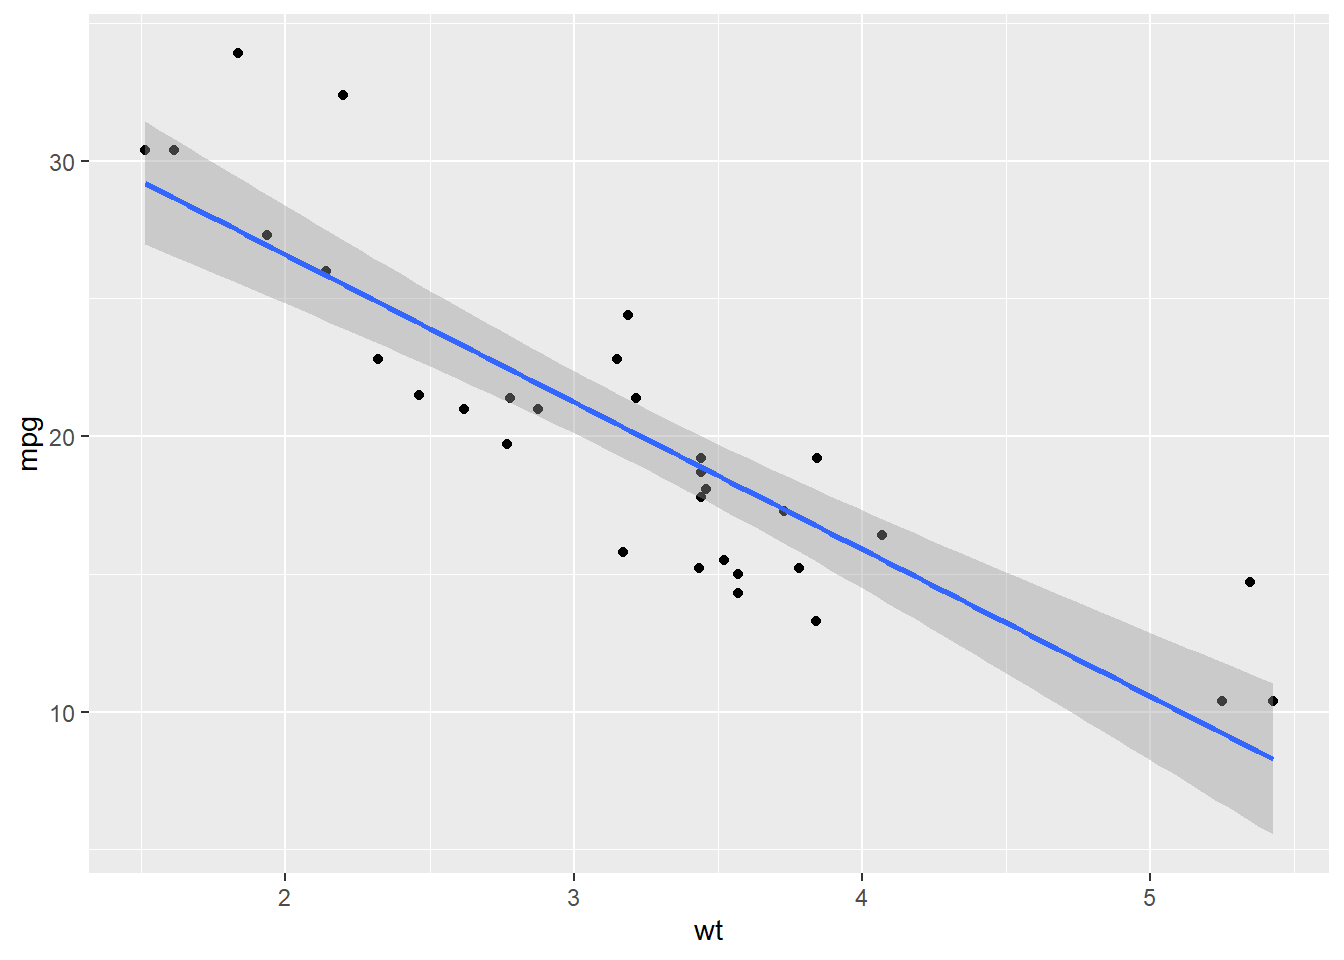
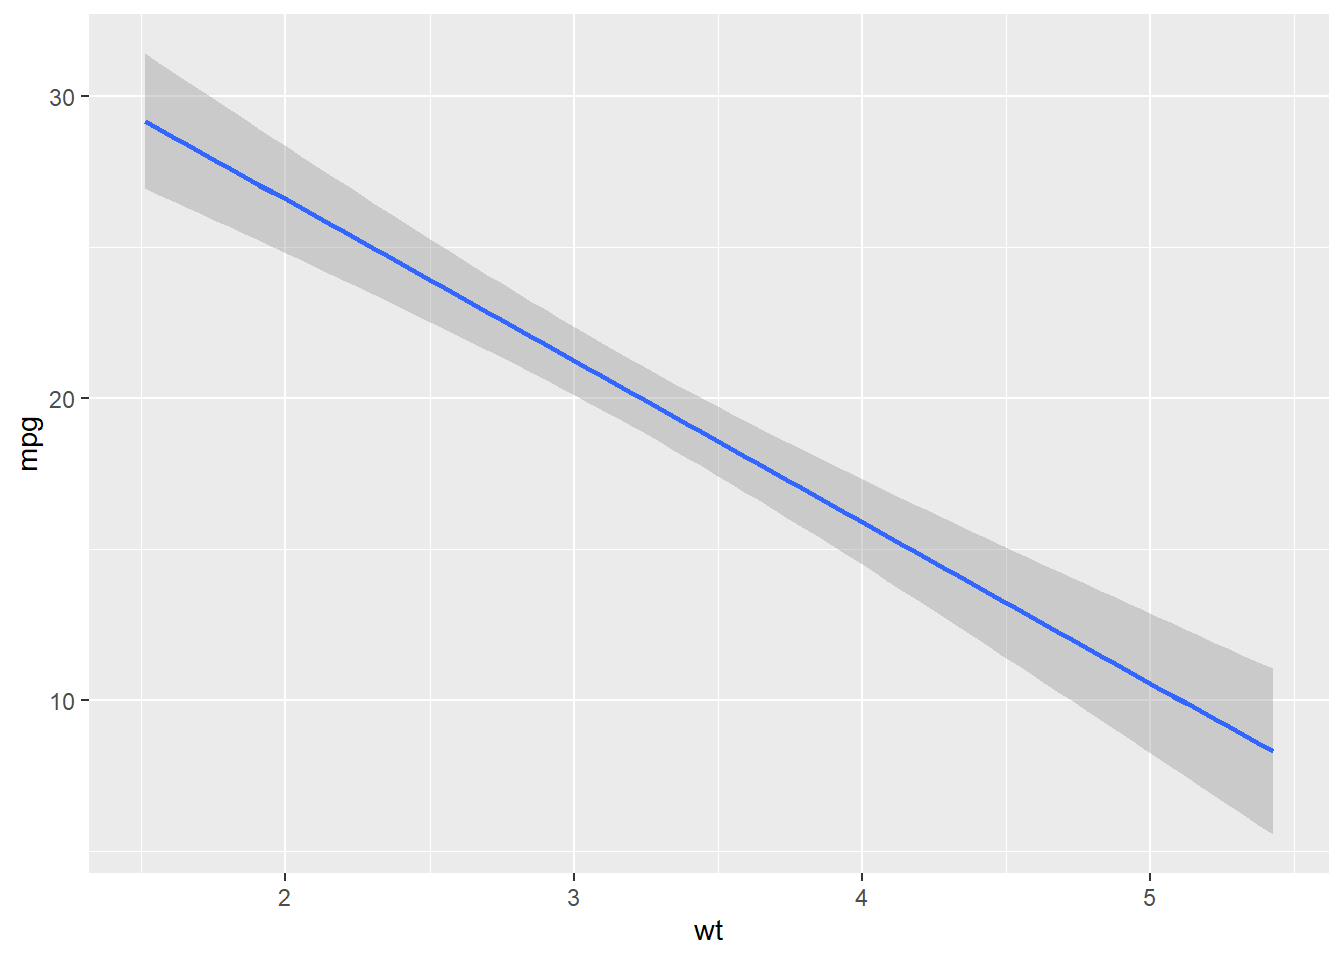
update demo9 and links

diff --git a/content/demonstrations/demo9a-modelling.html b/content/demonstrations/demo9a-modelling.html
@@ -16,12 +16,12 @@ editor_options:
 <li>plotting models using <code>geom_smooth</code></li>
 </ul>
 <pre class="r"><code>library(tidyverse)</code></pre>
-<pre><code>## -- Attaching packages ---------------- tidyverse 1.3.0 --</code></pre>
+<pre><code>## -- Attaching packages ------------------------ tidyverse 1.3.0 --</code></pre>
 <pre><code>## v ggplot2 3.3.2     v purrr   0.3.4
 ## v tibble  3.0.3     v dplyr   1.0.2
 ## v tidyr   1.1.2     v stringr 1.4.0
 ## v readr   1.3.1     v forcats 0.5.0</code></pre>
-<pre><code>## -- Conflicts ------------------- tidyverse_conflicts() --
+<pre><code>## -- Conflicts --------------------------- tidyverse_conflicts() --
 ## x dplyr::filter() masks stats::filter()
 ## x dplyr::lag()    masks stats::lag()</code></pre>
 <pre class="r"><code>library(gapminder)
@@ -192,8 +192,18 @@ str(my_model)</code></pre>
 ## 10 Merc 280          19.2  3.44    18.9  0.300     0.100  0.0329   3.10  1.71e-4
 ## # ... with 22 more rows</code></pre>
 <p>Or we can predict on a new dataset:</p>
-<pre class="r"><code>wt1 &lt;- data.frame(wt = seq(18:23))
-predict(my_lm,wt1)</code></pre>
+<pre class="r"><code>wt1 &lt;- tibble(wt = seq(18:23))
+wt1</code></pre>
+<pre><code>## # A tibble: 6 x 1
+##      wt
+##   &lt;int&gt;
+## 1     1
+## 2     2
+## 3     3
+## 4     4
+## 5     5
+## 6     6</code></pre>
+<pre class="r"><code>predict(my_lm,wt1)</code></pre>
 <pre><code>##         1         2         3         4         5         6 
 ## 31.940655 26.596183 21.251711 15.907240 10.562768  5.218297</code></pre>
 <pre class="r"><code>augment(my_lm, newdata = wt1)</code></pre>
@@ -266,7 +276,7 @@ predict(my_lm,wt1)</code></pre>
 ##   &lt;chr&gt;          &lt;dbl&gt;     &lt;dbl&gt;     &lt;dbl&gt;    &lt;dbl&gt;
 ## 1 (Intercept)    37.3      1.88      19.9  8.24e-19
 ## 2 wt             -5.34     0.559     -9.56 1.29e-10</code></pre>
-<pre class="r"><code>coef(summary(my_lm))</code></pre>
+<pre class="r"><code>coef(summary(my_lm)) </code></pre>
 <pre><code>##              Estimate Std. Error   t value     Pr(&gt;|t|)
 ## (Intercept) 37.285126   1.877627 19.857575 8.241799e-19
 ## wt          -5.344472   0.559101 -9.559044 1.293959e-10</code></pre>
@@ -295,7 +305,7 @@ predict(my_lm,wt1)</code></pre>
 <h1>Plotting linear models with <code>geom_smooth</code></h1>
 <p>We can plot models (with one predictor/ X variable) using <code>ggplot2</code> through the <code>geom_smooth()</code> layer. Specifying <code>method="lm"</code> gives us the linear regression fit (but only visually!):</p>
 <pre class="r"><code>ggplot(mtcars, aes(x = wt, y = mpg)) +
-    geom_point() +
+    #geom_point() +
     geom_smooth(method=&quot;lm&quot;) </code></pre>
 <pre><code>## `geom_smooth()` using formula &#39;y ~ x&#39;</code></pre>
 <p><img src="/demonstrations/demo9a-modelling_files/figure-html/unnamed-chunk-11-1.png" width="672" /></p>
@@ -321,6 +331,7 @@ Now we will try to fit a second degree polynomial and see what would that look l
               formula = y~poly(x,2), 
               se = F)</code></pre>
 <p><img src="/demonstrations/demo9a-modelling_files/figure-html/unnamed-chunk-14-1.png" width="672" /></p>
+<pre class="r"><code>#?geom_smooth</code></pre>
 </div>
 <div id="quiz-2" class="section level1">
 <h1>Quiz 2</h1>

diff --git a/content/week5a.html b/content/week5a.html
@@ -66,7 +66,7 @@ output: html_document
 <tr class="odd">
 <td>08A: Tidy Data</td>
 <td><a href="https://raw.githubusercontent.com/UBC-STAT/stat545.stat.ubc.ca/master/content/demonstrations/demo8a-tidyr.Rmd">.Rmd</a></td>
-<td><a href="">Knitted Demo</a></td>
+<td><a href="/demonstrations/demo8a-tidyr">Knitted Demo</a></td>
 </tr>
 </tbody>
 </table>
@@ -105,7 +105,6 @@ output: html_document
 <ul>
 <li>fitting a linear regression model using <code>lm</code></li>
 <li>plotting linear models using <code>geom_smooth</code></li>
-<li><code>I()</code></li>
 <li><code>augment()</code></li>
 <li><code>tidy()</code></li>
 <li><code>glance()</code></li>
@@ -125,7 +124,7 @@ output: html_document
 <tr class="odd">
 <td>09A: Model Fitting Paradigm</td>
 <td><a href="https://raw.githubusercontent.com/UBC-STAT/stat545.stat.ubc.ca/master/content/demonstrations/demo9a-modelling.Rmd">.Rmd</a></td>
-<td><a href="">Knitted Demo</a></td>
+<td><a href="/demonstrations/demo9a-modelling">Knitted Demo</a></td>
 </tr>
 </tbody>
 </table>

diff --git a/content/course.html b/content/course.html
@@ -125,6 +125,11 @@ output: html_document
 <td><a href="https://raw.githubusercontent.com/UBC-STAT/stat545.stat.ubc.ca/master/content/demonstrations/demo8a-tidyr.Rmd">.Rmd</a></td>
 <td><a href="/demonstrations/demo8a-tidyr">Knitted demo</a></td>
 </tr>
+<tr class="even">
+<td>9-A: modelling in R</td>
+<td><a href="https://raw.githubusercontent.com/UBC-STAT/stat545.stat.ubc.ca/master/content/demonstrations/demo9a-modelling.Rmd">.Rmd</a></td>
+<td><a href="/demonstrations/demo9a-modelling">Knitted demo</a></td>
+</tr>
 </tbody>
 </table>
 <hr />
